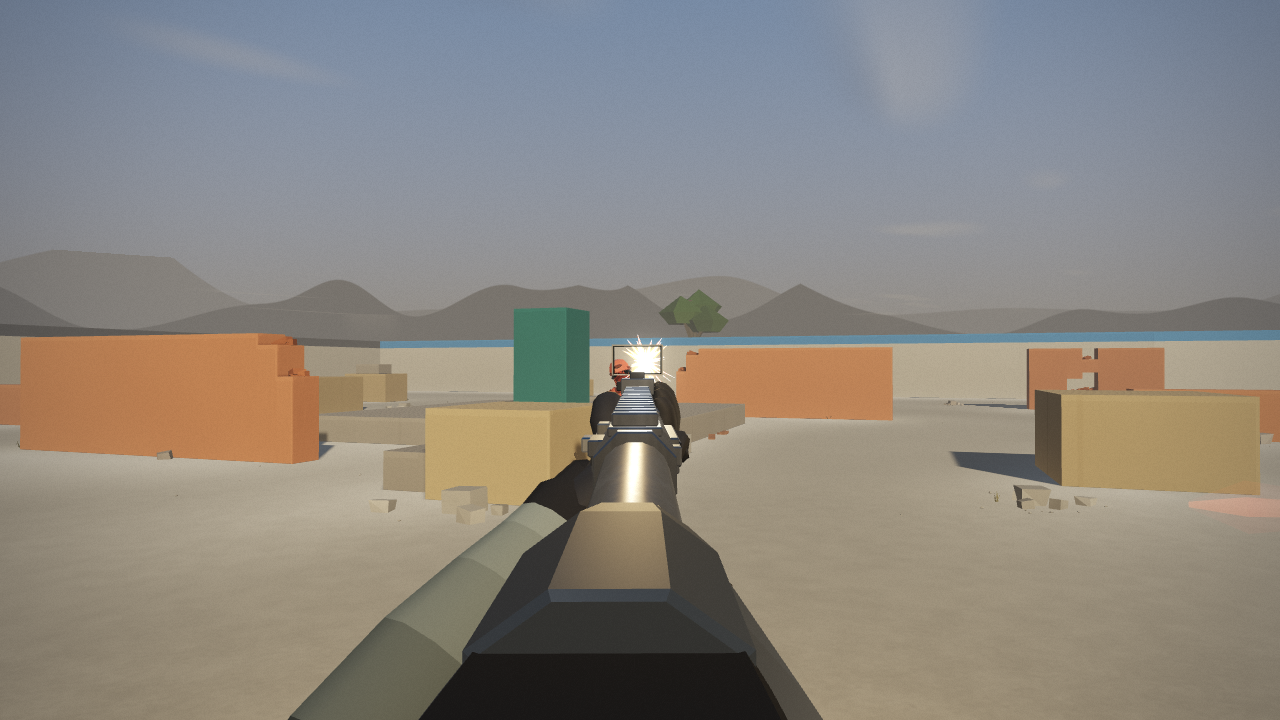
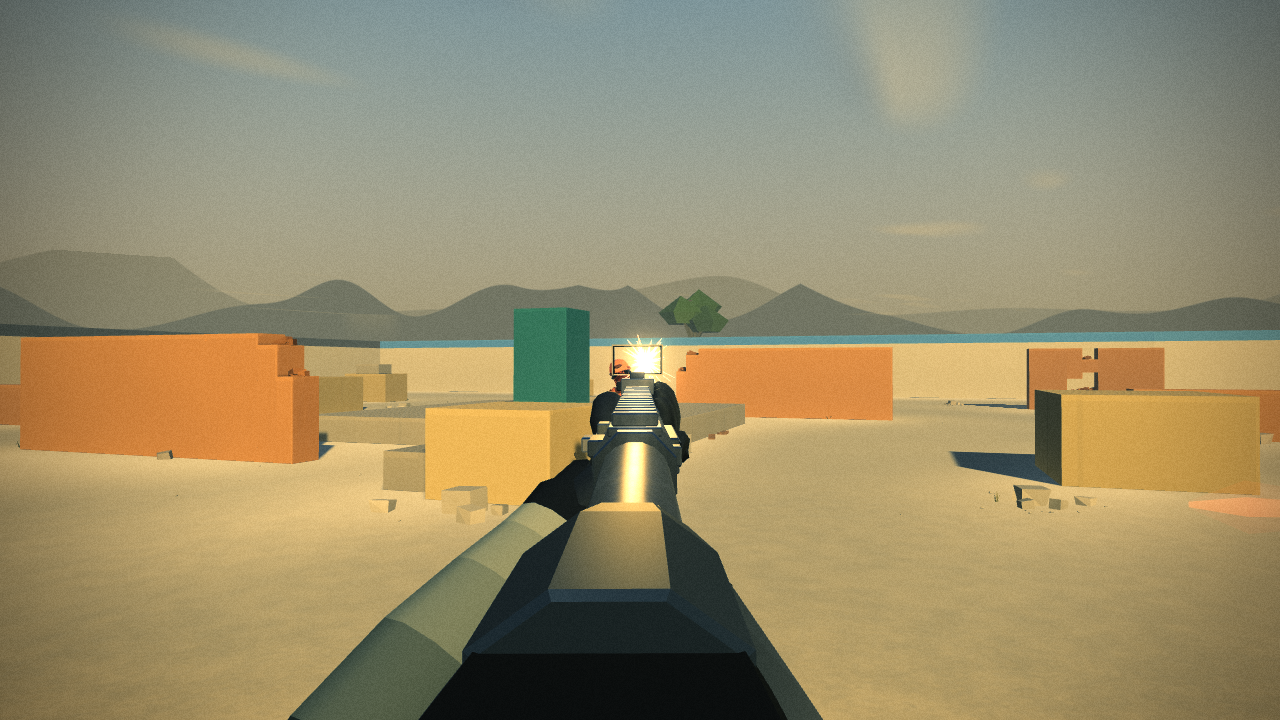
filmic

diff --git a/media/README.md b/media/README.md
@@ -3,8 +3,10 @@
 `hero.gif` is the README trailer. `hero.mp4` is the same edit at 60 fps with
 captured game sound. `fight.png` and `scope.png` share the trailer's staging.
 Every arena, character, movement, tracer and impact comes from the game.
-FFmpeg supplies the cuts, speed changes, a restrained colour adjustment and
-the closing title. There are no generated or painted gameplay frames.
+FFmpeg supplies the cuts, speed changes, light sharpening and the closing
+title. The game's FILMIC look supplies the contrast, cool shadows, warm
+highlights, glow and grain; the edit adds no second colour grade.
+There are no generated or painted gameplay frames.
 
 The loop moves through dunes, forest, marsh, frost, quarry and aurora. It
 alternates third-person movement with first-person fighting: slide, jump,
